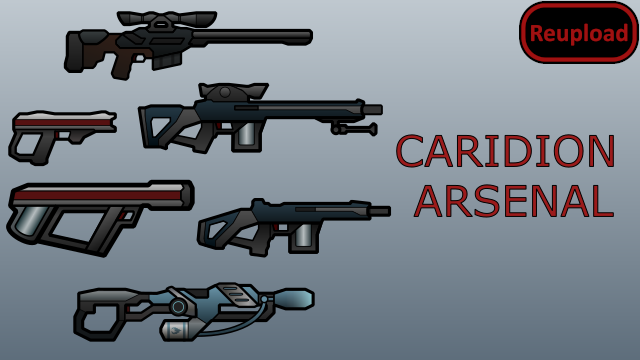
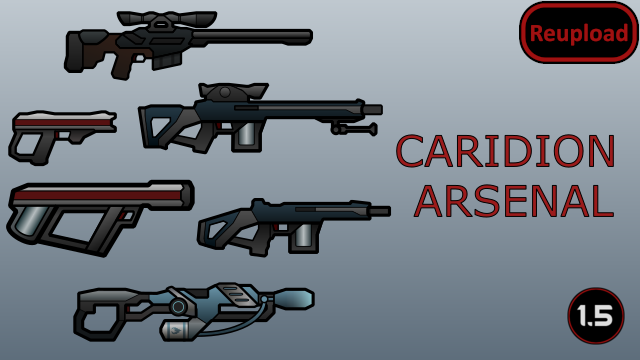
Mod updated for 1.5 and passed autotests

Changed region(s): [[0.875, 0.7944, 1.0, 0.9778]]

diff --git a/README.md b/README.md
@@ -27,11 +27,13 @@ Additional details at: https://ludeon.com/forums/index.php?topic=29772.msg301969
 
 -  See if the the error persists if you just have this mod and its requirements active.
 -  If not, try adding your other mods until it happens again.
--  Post your error-log using https://steamcommunity.com/workshop/filedetails/?id=818773962]HugsLib and command Ctrl+F12
+-  Post your error-log using https://steamcommunity.com/workshop/filedetails/?id=818773962]HugsLib or the standalone https://steamcommunity.com/sharedfiles/filedetails/?id=2873415404]Uploader and command Ctrl+F12
 -  For best support, please use the Discord-channel for error-reporting.
 -  Do not report errors by making a discussion-thread, I get no notification of that.
 -  If you have the solution for a problem, please post it to the GitHub repository.
+-  Use https://github.com/RimSort/RimSort/releases/latest]RimSort to sort your mods
 
 
 
+https://steamcommunity.com/sharedfiles/filedetails/changelog/2332908273]![Image](https://img.shields.io/github/v/release/emipa606/CaridionArsenal?label=latest%20version&style=plastic&color=9f1111&labelColor=black)
 
